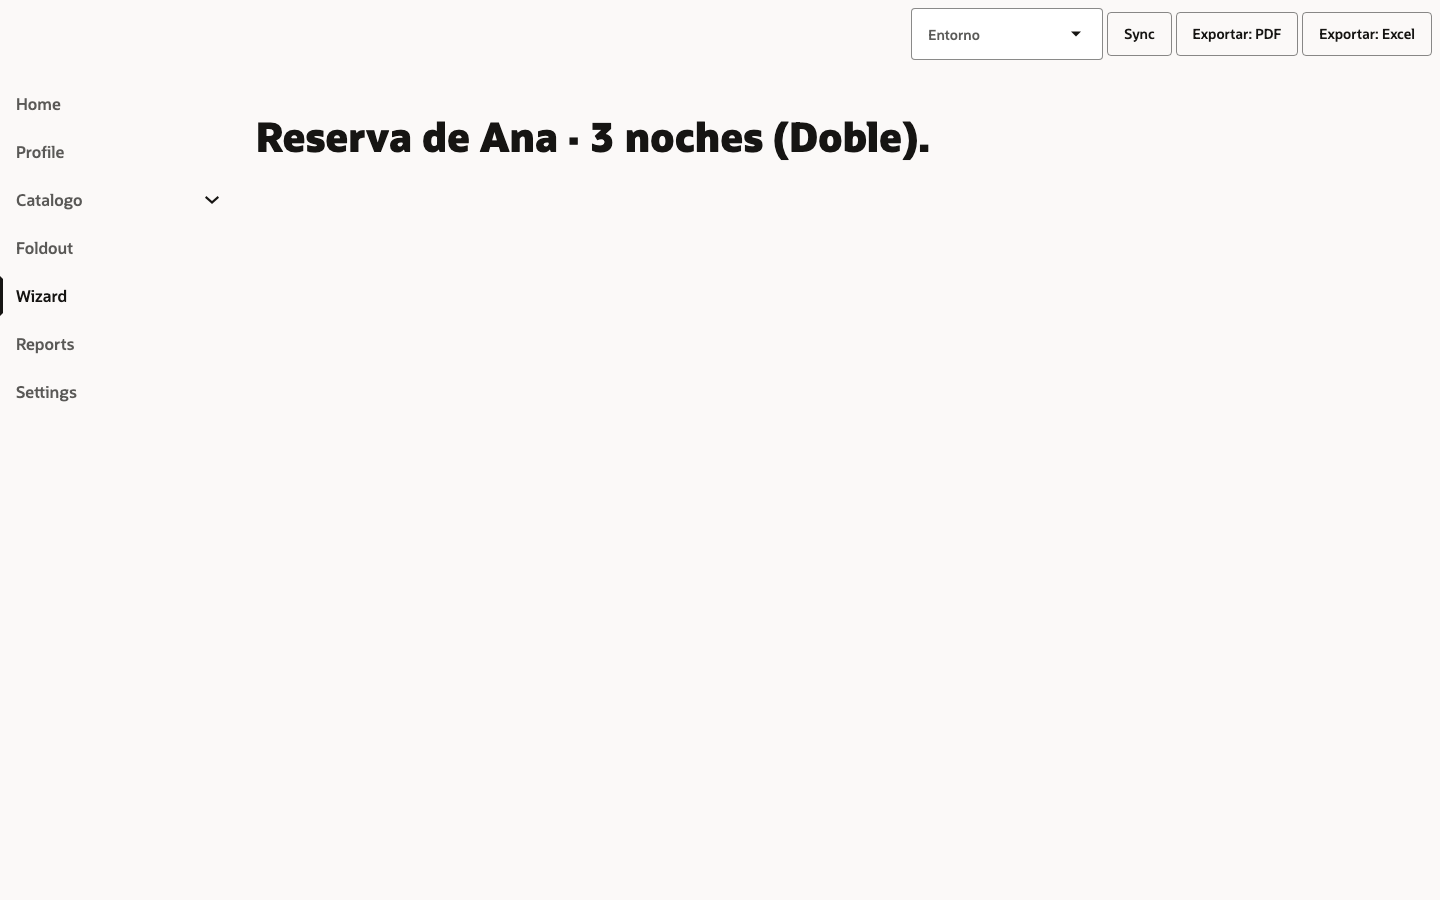
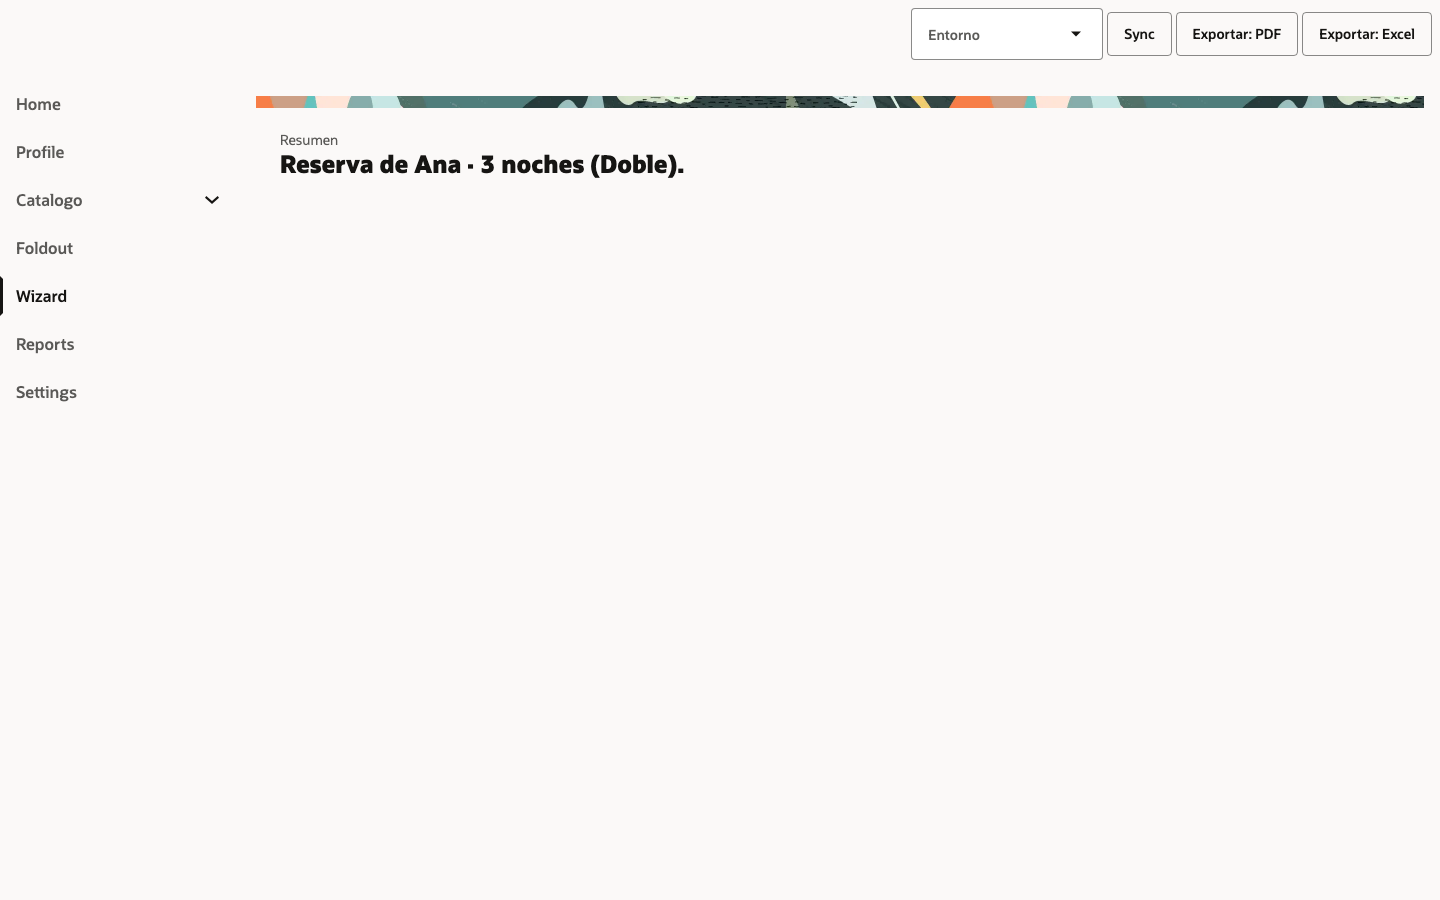
fix(vb): wizard result uses the guided-process NATIVE completion panel
En vez de salir del oj-sp-guided-process para pintar el recap por la rama
de texto, se usa el mecanismo NATIVO del componente (más VB-puro):

- completion-status="on" (getGuidedCompletion() cuando wizardResult) →
  el guided-process oculta step+rail y muestra su panel de completación.
- El contenido del recap va en el slot completionStep (campos del paso
  resultado de Mateu como pares label/valor, tipografía OJET estándar).
- _wizardStep en el resultado mantiene isWizard:true (no se sale del
  componente); guidedStepChange se guarda para no re-navegar sobre el
  panel. Eliminado _wizardResultState (ya no se sale a la rama de texto).

Verificado: overview → pasos → completar → panel de completación con
"Resumen: Reserva de Ana · 3 noches (Doble)."; y re-entrar al wizard
resetea completion-status a 'off' (vuelve al overview).

Changed region(s): [[0.1562, 0.0933, 1.0, 0.2178]]

diff --git a/.dev/vb/frontoffice-renderer/webApps/vbredwoodapp/app-flow.js b/.dev/vb/frontoffice-renderer/webApps/vbredwoodapp/app-flow.js
@@ -292,7 +292,8 @@ define([
       // resumen de pasos). Se muestra al entrar y al cancelar; empezar/cancelar es CLIENTE (no Mateu).
       this.wizardOverview = ko.observable(true);
       // El paso RESULTADO de Mateu (recap read-only) NO viene en el rail y no trae botones de
-      // navegación; al detectarlo salimos del guided-process y mostramos el recap por la rama de texto.
+      // navegación; al detectarlo activamos completion-status='on' → panel de completación NATIVO
+      // del oj-sp-guided-process (slot completionStep con el recap).
       this.wizardResult = ko.observable(false);
       this.wizardMenuRoute = '';
     }
@@ -310,9 +311,13 @@ define([
     }
     getGuidedPrimary() {
       // Debe ser SIEMPRE un objeto válido: el oj-sp-guided-process lee primary-action.progressState
-      // y un null lo hace petar. En el resultado salimos del proceso (isWizard=false), así que este
-      // valor deja de usarse; nunca devolvemos null.
+      // y un null lo hace petar.
       return { label: this.wizardAdvanceLabel(), progressState: 'off' };
+    }
+    // completion-status del oj-sp-guided-process: 'on' en el paso RESULTADO de Mateu → el componente
+    // pinta su PANEL DE COMPLETACIÓN nativo (slot completionStep con el recap). 'off' el resto.
+    getGuidedCompletion() {
+      return this.wizardResult() ? 'on' : 'off';
     }
     getFormFields() {
       return this.formFields;
@@ -567,20 +572,9 @@ define([
     }
     // spBeforeStepNavigate: el guided-process pide ir a otro paso. Dirección por currentStep/nextStep:
     // adelante → la acción de avance del wire (next/completar); atrás → 'back'.
-    // Estado de RESULTADO (recap read-only) para la rama de texto VB, tras salir del guided-process.
-    _wizardResultState() {
-      // this.formFields es un ko.observableArray → hay que invocarlo para obtener el array.
-      const resumen =
-        this.formFields()
-          .map((f) => f.value)
-          .filter((v) => v != null && String(v).trim() !== '')
-          .join(' · ') || 'Completado';
-      return { isWizard: false, isForm: false, isFoldout: false, isTable: false, greeting: resumen };
-    }
     async guidedStepChange(event) {
-      // Al completar, el guided-process dispara TAMBIÉN este evento tras sp-primary-action; si ya
-      // estamos en el resultado NO re-montamos el proceso: devolvemos el mismo estado de recap.
-      if (this.wizardResult()) return this._wizardResultState();
+      // En el resultado (panel de completación) no hay navegación de pasos: ignorar clics del rail.
+      if (this.wizardResult()) return { isWizard: true, isForm: false, isFoldout: false, isTable: false, greeting: '' };
       const d = (event && event.detail) || {};
       const cur = parseInt(d.currentStep, 10); // NaN si venimos del overview ("")
       const nxt = parseInt(d.nextStep, 10);
@@ -620,10 +614,9 @@ define([
       // ¿Sigue siendo wizard (hay ProgressSteps)? → paso siguiente/resultado; si no, texto/form.
       if (findSteps(host.tree)) {
         this._applyWizard(host);
-        // RESULTADO: el oj-sp-guided-process no reacciona a cambios de current-step/steps/primary
-        // post-init (solo su slot es reactivo), así que SALIMOS de él y mostramos el recap read-only
-        // (los campos del paso resultado de Mateu) por la rama de texto VB. Cero apaños de estilo.
-        if (this.wizardResult()) return this._wizardResultState();
+        // Paso siguiente O paso RESULTADO: en ambos seguimos en el guided-process. El resultado
+        // (wizardResult) lo pinta el PANEL DE COMPLETACIÓN nativo (completion-status='on' + slot
+        // completionStep), reactivo vía getGuidedCompletion(); no salimos del componente.
         return { isWizard: true, isForm: false, isFoldout: false, isTable: false, greeting: '' };
       }
       const nfields = this._buildFormFields(host, host.state || {});

diff --git a/.dev/vb/frontoffice-renderer/webApps/vbredwoodapp/flows/main/pages/main-start-page.html b/.dev/vb/frontoffice-renderer/webApps/vbredwoodapp/flows/main/pages/main-start-page.html
@@ -13,6 +13,7 @@
       steps="[[ $application.functions.getGuidedSteps() ]]"
       current-step="[[ $application.functions.getGuidedCurrent() ]]"
       primary-action="[[ $application.functions.getGuidedPrimary() ]]"
+      completion-status="[[ $application.functions.getGuidedCompletion() ]]"
       on-sp-primary-action="[[ $listeners.guidedPrimary ]]"
       on-sp-before-step-navigate="[[ $listeners.guidedStep ]]"
       on-sp-cancel="[[ $listeners.guidedCancel ]]"
@@ -27,6 +28,19 @@
               <oj-bind-if test="[[ !field.data.isNumber ]]">
                 <oj-c-input-text label-hint="[[ field.data.label ]]" value="[[ field.data.value ]]" :data-field="[[ field.data.fieldId ]]"></oj-c-input-text>
               </oj-bind-if>
+            </div>
+          </template>
+        </oj-bind-for-each>
+      </div>
+
+      <!-- Panel de COMPLETACIÓN nativo del guided-process (completion-status='on'): el recap del paso
+           resultado de Mateu. Los campos del paso resultado (getFormFields) como pares label/valor. -->
+      <div slot="completionStep" class="oj-sm-padding-6x">
+        <oj-bind-for-each data="[[ $application.functions.getFormFields() ]]">
+          <template data-oj-as="field">
+            <div class="oj-sm-margin-4x-bottom">
+              <div class="oj-text-color-secondary oj-typography-body-sm"><oj-bind-text value="[[ field.data.label ]]"></oj-bind-text></div>
+              <div class="oj-typography-heading-sm"><oj-bind-text value="[[ field.data.value ]]"></oj-bind-text></div>
             </div>
           </template>
         </oj-bind-for-each>

diff --git a/.dev/vb/DESIGN-NOTES.md b/.dev/vb/DESIGN-NOTES.md
@@ -310,18 +310,24 @@ del wire por paso. Contrato:
   - **El paso RESULTADO no está en el rail** (`ProgressSteps` sólo lista los pasos reales, todos `done`) y no
     trae botones de navegación (`collectActions(tree)==[]`). Se detecta con `isResult = pos>=steps.length &&
     !advance` (en `_applyWizard`, marca `wizardResult`).
-  - **El `oj-sp-guided-process` sólo es reactivo en su SLOT** (los form-fields), NO en `current-step`/`steps`/
-    `primary-action` tras el init → intentar pintar el recap DENTRO del proceso no funciona. Solución VB-pura:
-    al detectar el resultado se **SALE del guided-process** (`isWizard:false`) y se muestra el recap por la rama
-    de TEXTO ya existente (`greeting` = join de los valores de los form-fields del paso resultado). Cero HTML/CSS
-    extra. Ver `_wizardResultState()`.
+  - **PANEL DE COMPLETACIÓN NATIVO del oj-sp-guided-process** (el componente lo trae de fábrica): propiedad
+    **`completion-status`** (`"on"`/`"off"`) → al ponerla `"on"` el componente oculta el step + rail y muestra
+    su panel de completación, cuyo contenido va en el **slot `completionStep`** (`<oj-bind-slot
+    name="completionStep">`). El bridge: `getGuidedCompletion()` devuelve `'on'` cuando `wizardResult` (reactivo,
+    el viewModel escucha el cambio de `completionStatus` y hace `displayCompletionStep(...)` + scroll-to-top);
+    en el template, `completion-status="[[ getGuidedCompletion() ]]"` + un `<div slot="completionStep">` que
+    pinta los campos del paso resultado (getFormFields) como pares label/valor con tipografía OJET estándar.
+    NO se sale del componente: el wizard se completa DENTRO del guided-process (UX Spectra correcto). `_wizardStep`
+    en el resultado sigue devolviendo `isWizard:true`.
   - **Gotchas que costaron sangre**: (a) `getGuidedPrimary()` NUNCA debe devolver `null` — el componente lee
     `primary-action.progressState` y un null lanza *síncronamente* dentro del observable write de `_applyWizard`;
     (b) al `completar`, el componente dispara `sp-primary-action` (`guidedPrimary`) — y a veces también
-    `sp-before-step-navigate` (`guidedStepChange`); la guarda `if (wizardResult()) return _wizardResultState()`
-    en `guidedStepChange` evita re-montar el proceso encima del recap; (c) `this.formFields` es un
-    `ko.observableArray` → hay que invocarlo (`this.formFields()`) para mapear.
-  - Evidencia: `shots/fase8-guided-process.png` (recap "Reserva de Ana · 3 noches (Doble).").
+    `sp-before-step-navigate` (`guidedStepChange`); la guarda `if (wizardResult()) return {isWizard:true…}` en
+    `guidedStepChange` evita re-navegar sobre el panel de completación; (c) un intento previo de pintar el recap
+    fuera del componente falló porque el guided-process sólo es reactivo en su slot, NO en `current-step`/`steps`;
+    el `completion-status` SÍ es reactivo → por eso el panel nativo es la solución correcta.
+  - Evidencia: `shots/fase8-wizard-result.png` (panel de completación con "Resumen: Reserva de Ana · 3 noches
+    (Doble).").
 - **AHORA usa el `oj-sp-guided-process` REAL** (Spectra), driven por Mateu:
   - Se le pasa `steps` (`[{id, title, status}]`; status **`success`** para pasos hechos / `none`; el paso
     ACTUAL lo marca la propiedad **`current-step`** (=posición), NO el status), `primary-action` (`{label}`).
